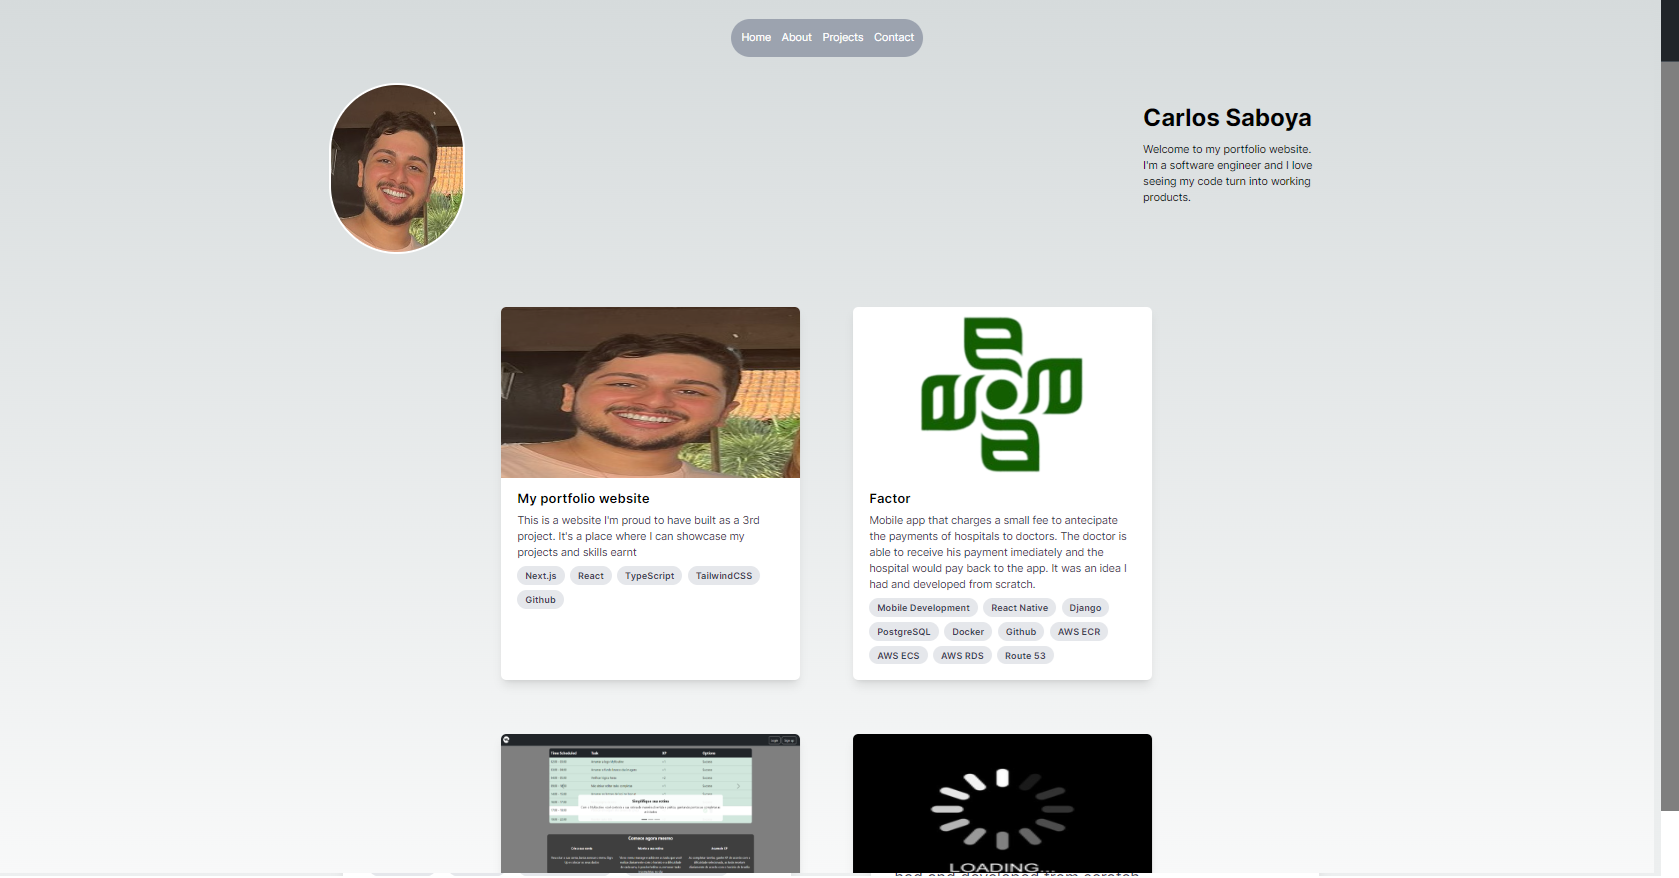
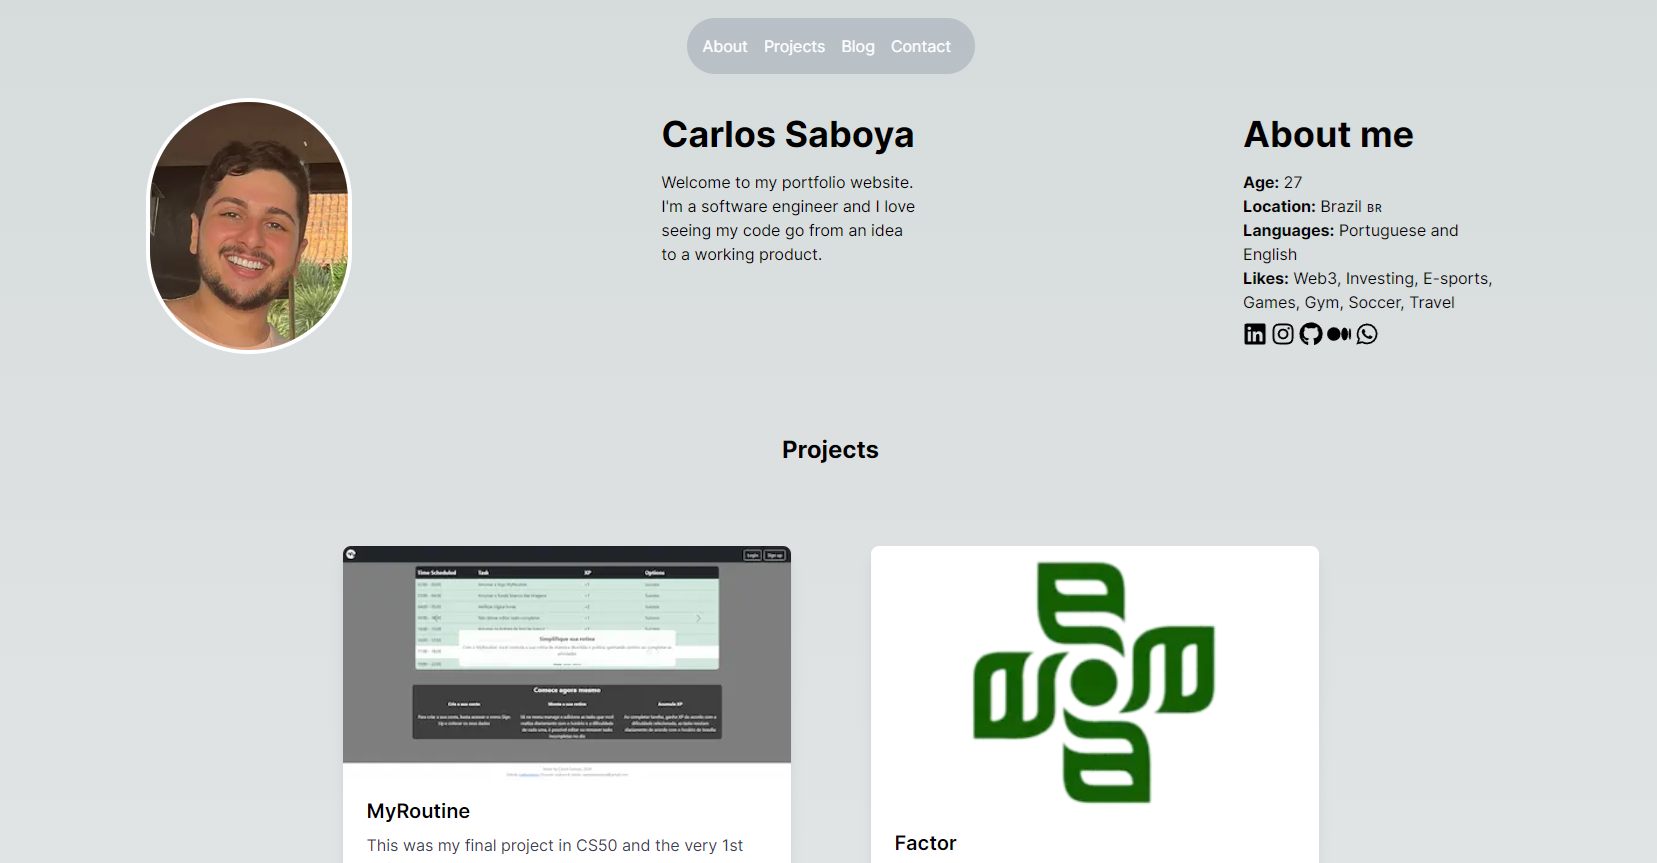
Update Factor card to redirect to Medium and portfolio website pic

diff --git a/app/page.tsx b/app/page.tsx
@@ -34,7 +34,7 @@ const Home = () => {
           imageUrl="/factor.png"
           skills={['Mobile Development', 'React Native', 'Python (Django)', 'PostgreSQL', 'Docker', 'Git', 'Unit Test', 'CI/CD Pipeline',  'AWS ECR', 'AWS ECS', 'AWS RDS', 'Route 53']}
           githubUrl='https://github.com/cadusaboya/factor'
-          mediumUrl=''
+          mediumUrl='https://medium.com/@carlosepsaboya/factor-diving-into-mobile-app-development-cf0266e66511'
         />
       </div>
 
